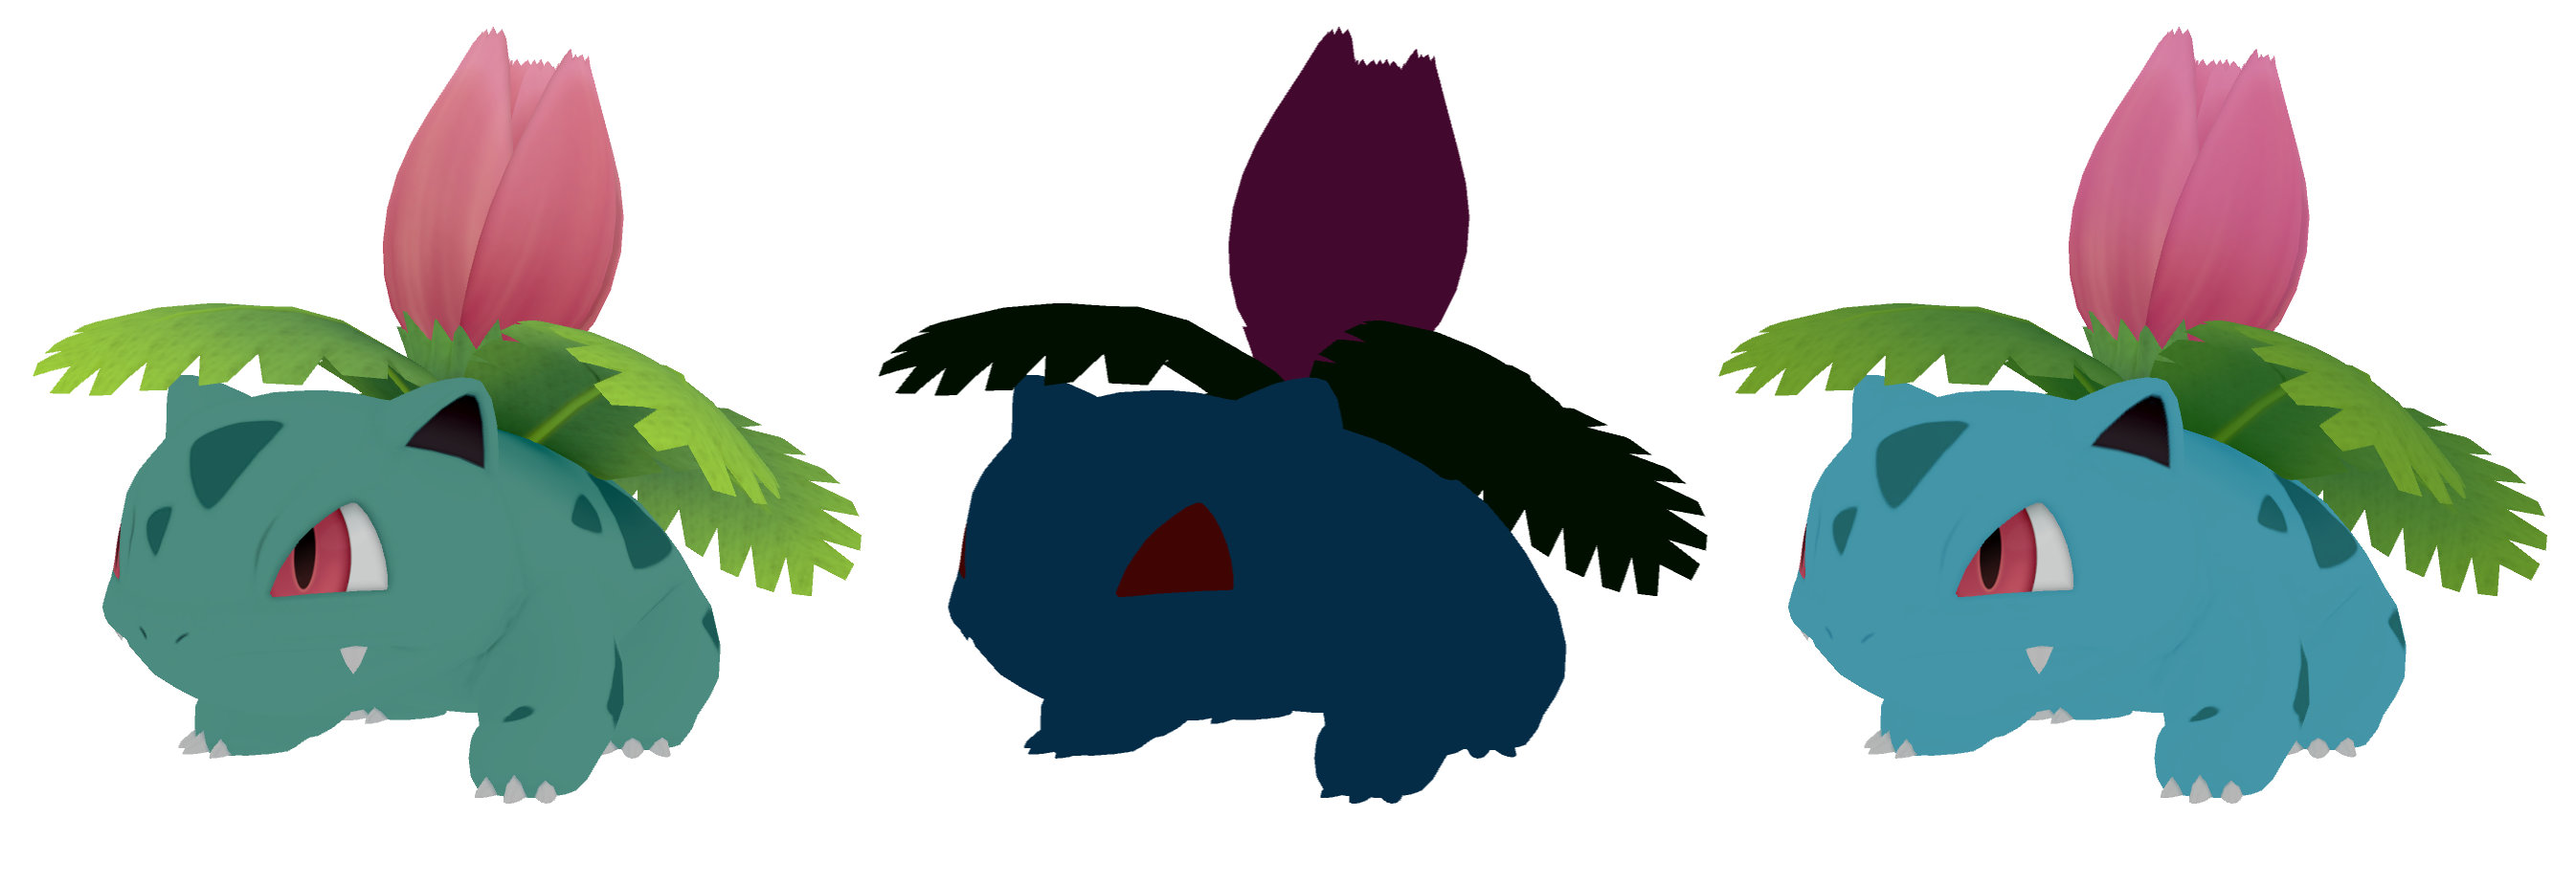
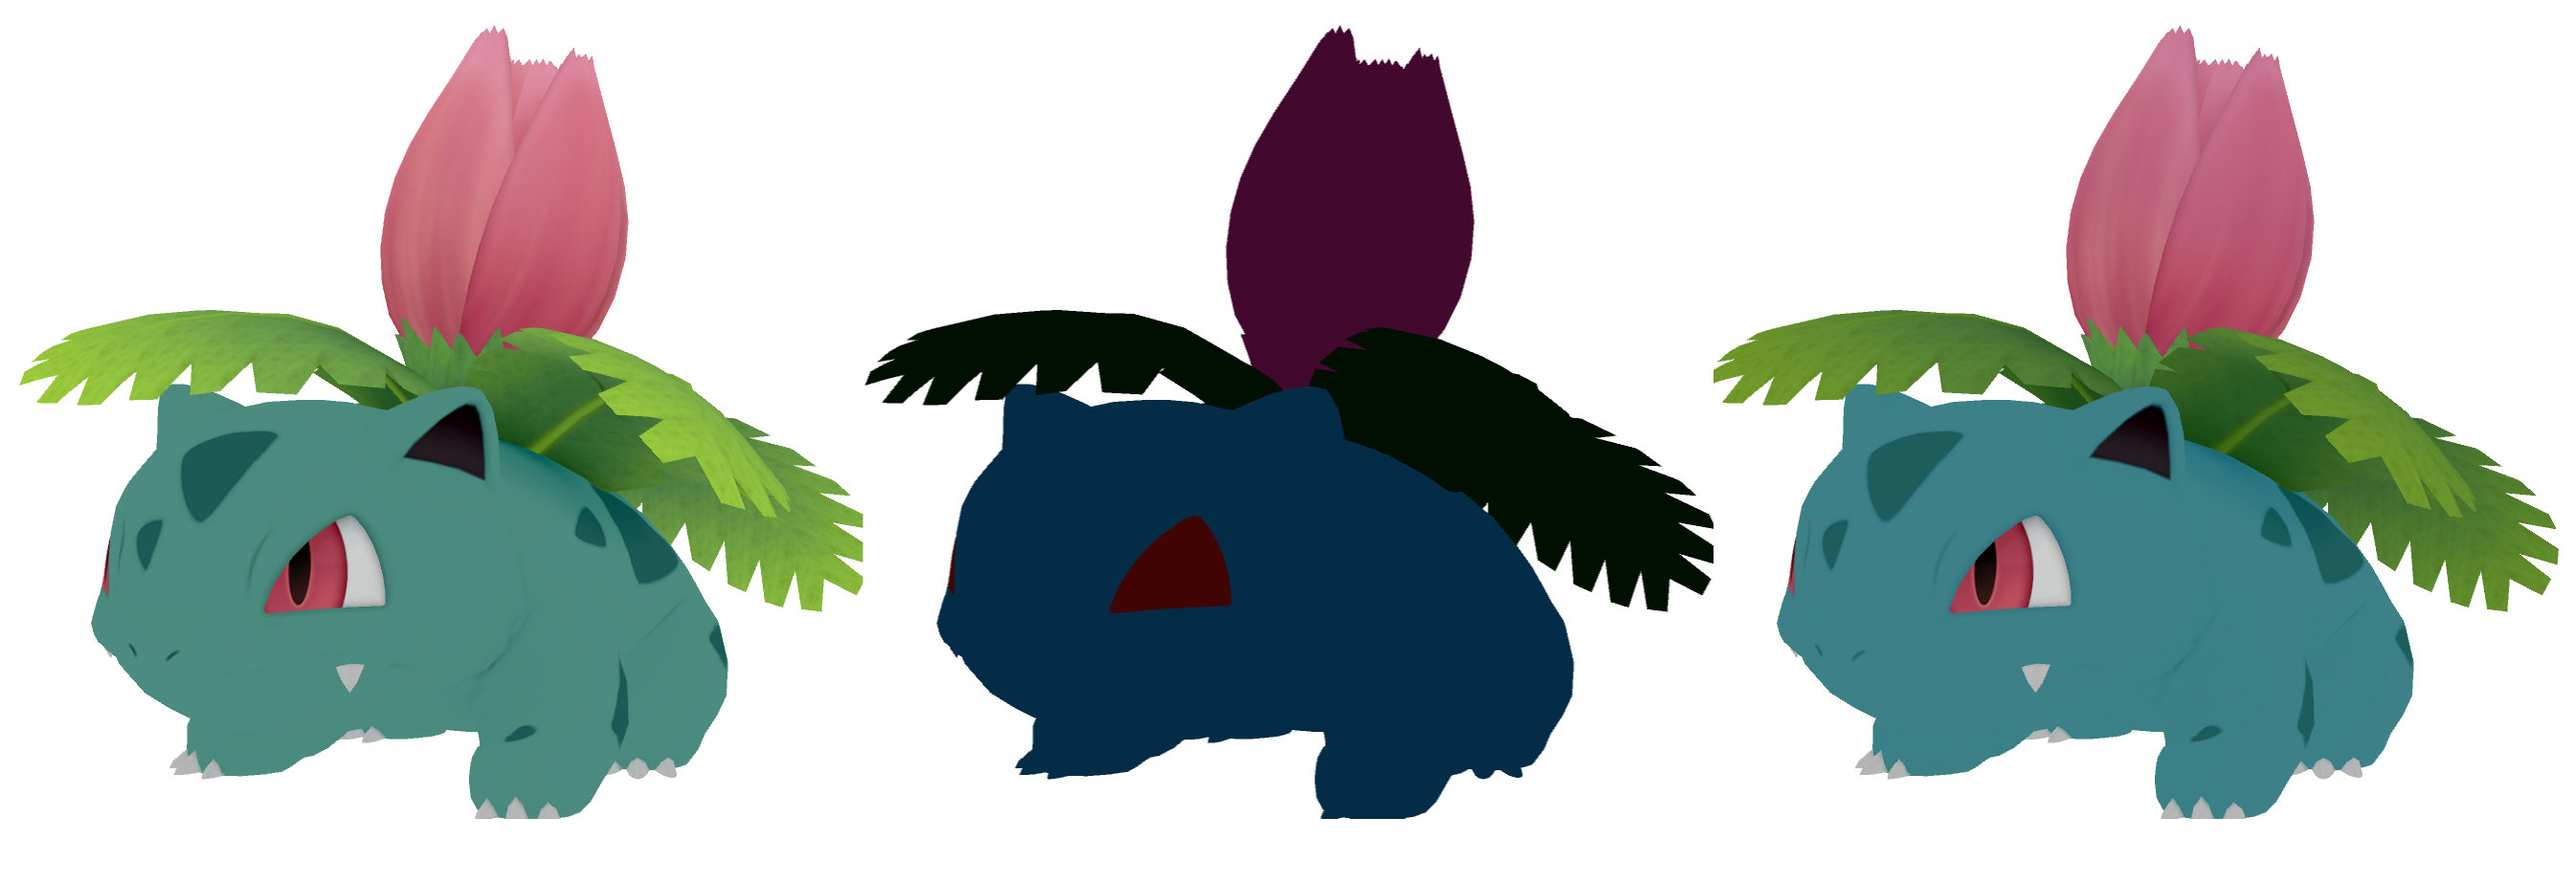
fix image and code samples for skin demo

diff --git a/skin_materials.md b/skin_materials.md
@@ -60,7 +60,7 @@ If either CustomVector30.x or the metalness map are 0.0, the material will use t
 
 ```glsl
 // CustomVector30.x is the overall intensity.
-// Metalness acts like a "mask".
+// Metalness acts like a mask.
 float sssBlend = CustomVector30.x * metalness;
 ```
 
@@ -69,15 +69,11 @@ float sssBlend = CustomVector30.x * metalness;
     <img src="{{ "/assets/images/albedo/ivysaur_albedo.jpg" | relative_url }}" height="auto" width="auto">
     <figcaption class="figure-caption text-center">Ivysaur's col map (left), CustomVector11.rgb (center), and calculated albedo color (right)</figcaption>
 </figure>
-The RGB values for CustomVector11 control the subsurface color. This is typically a dark red color to approximate skin.
-Bright colors will likely cause unwanted bloom.
-The albedo color is calculated using the col map color as well as CustomVector11's color.
+The RGB values for CustomVector11 control the subsurface color. This is typically a dark red color to approximate skin. Bright colors will likely cause unwanted bloom.
 
 ```glsl
 // Blend the col map color with the subsurface color.
-// Note that CustomVector11 makes the albedo brighter.
 vec3 albedoFinal = mix(col.rgb, CustomVector11.rgb, sssBlend);
-albedoFinal += CustomVector11.rgb * sssBlend;
 ```
 
 ### Diffuse Shading
@@ -86,9 +82,9 @@ Using a very high value for the second value of CustomVector30 creates a cel-sha
 A very similar technique is used for Breath of the Wild's shaders, for example.
 
 ```glsl
-float skinShading = diffuseShading * CustomVector30.y;
+float skinShading = nDotL * CustomVector30.y * 0.5 + 0.5;
+skinShading = clamp(skinShading, 0.0, 1.0) ;
 float finalDiffuseShading = mix(nDotL, skinShading, sssBlend);
-finalDiffuseShading = clamp(finalDiffuseShading, 0.0, 1.0);
 ```
 
 The third and fourth parameters are unused, despite having values set for some models.
